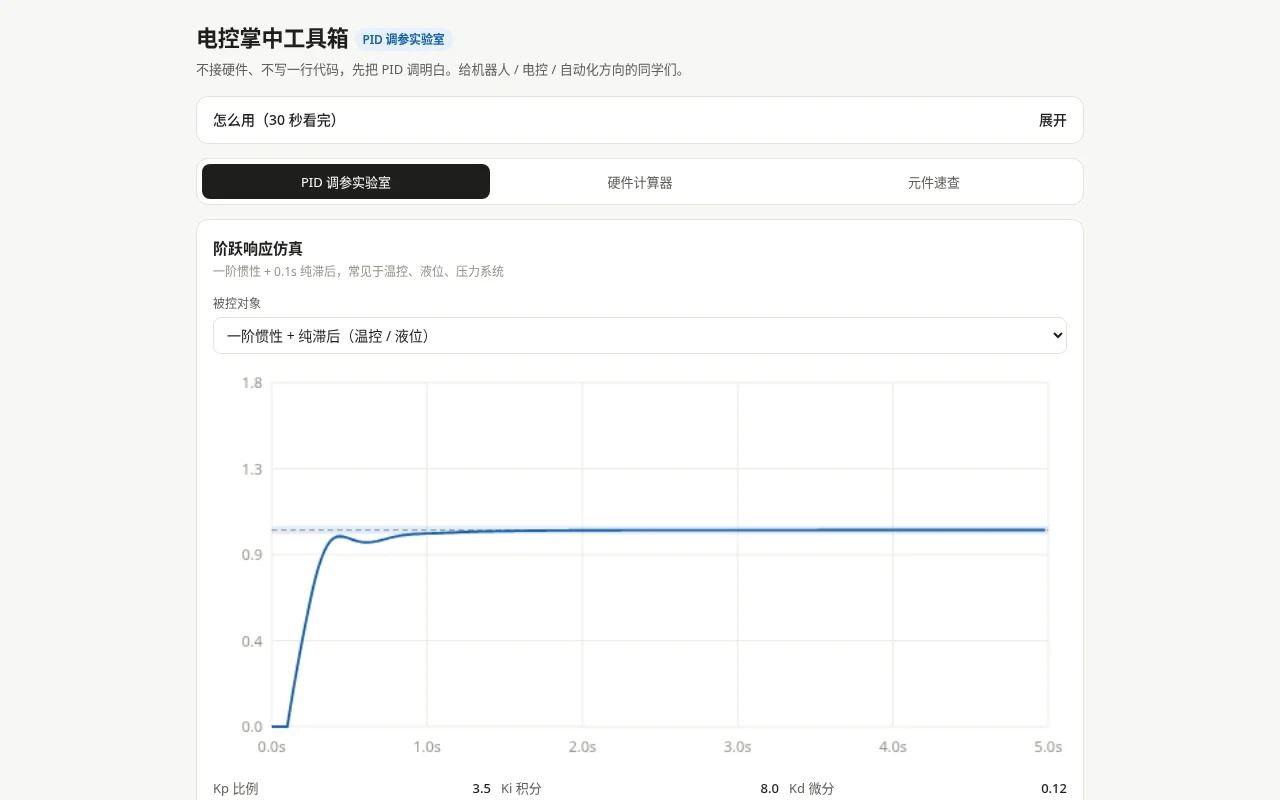
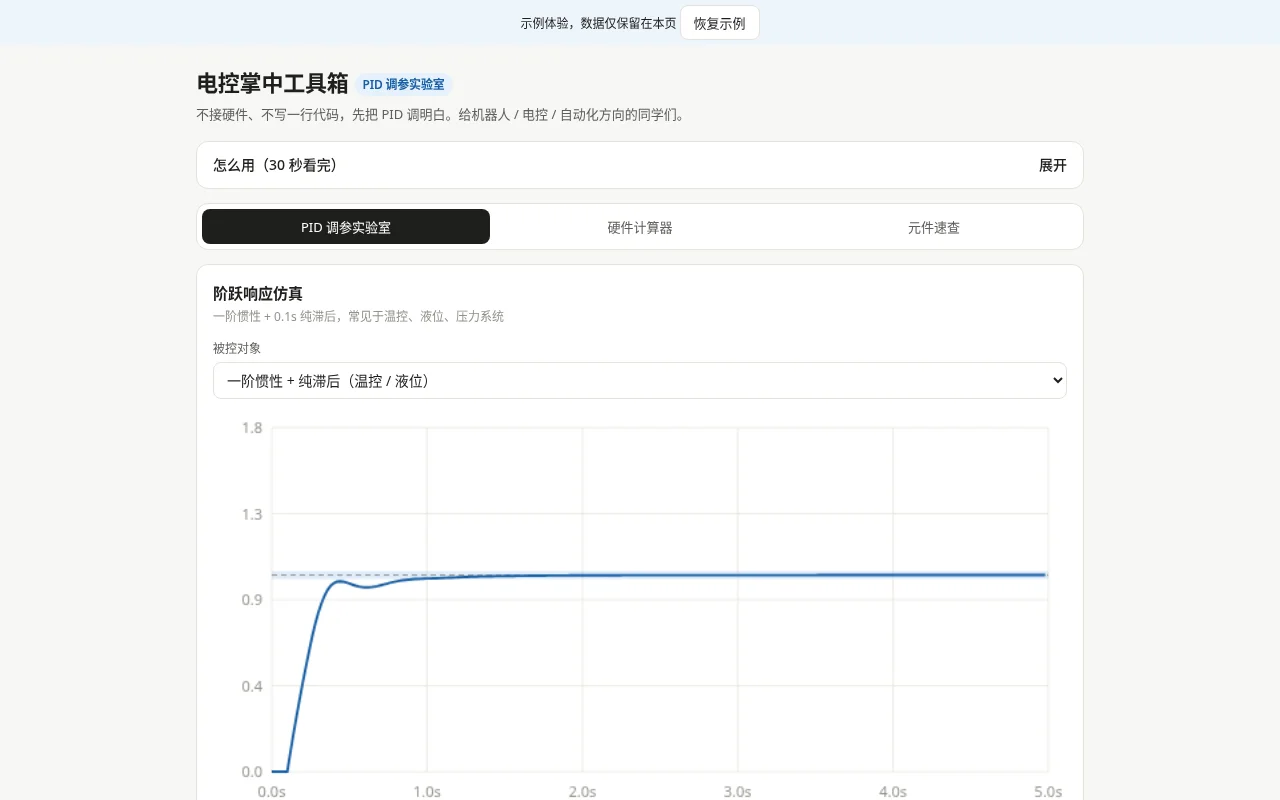
Add PID tuning laboratory template

diff --git a/wb1024-c534-a0cfc625/showcase/preview.html b/wb1024-c534-a0cfc625/showcase/preview.html
@@ -87,6 +87,8 @@ td.mono{font-family:ui-monospace,Menlo,Consolas,monospace}
 </style>
 </head>
 <body>
+<div style="text-align:center;font-size:12px;padding:5px;background:#edf5fc">示例体验，数据仅保留在本页 <button id="preview-reset" type="button">恢复示例</button></div>
+<div id="preview-root">
 <div class="wrap">
 
 <header>
@@ -293,7 +295,10 @@ td.mono{font-family:ui-monospace,Menlo,Consolas,monospace}
 
 </div>
 
+</div>
 <script>
+const previewRoot=document.getElementById("preview-root"), previewInitial=previewRoot.innerHTML;
+function initPreview(){
 /* ===================== 工具 ===================== */
 const $=function(id){return document.getElementById(id);};
 const clamp=function(v,a,b){return v<a?a:(v>b?b:v);};
@@ -687,6 +692,9 @@ document.querySelector('.badge').onclick=function(){
 fitCanvas();
 window.addEventListener('resize',function(){fitCanvas();update();});
 update();
+}
+initPreview();
+document.getElementById("preview-reset").addEventListener("click",()=>{previewRoot.innerHTML=previewInitial;initPreview();});
 </script>
 </body>
 </html>
